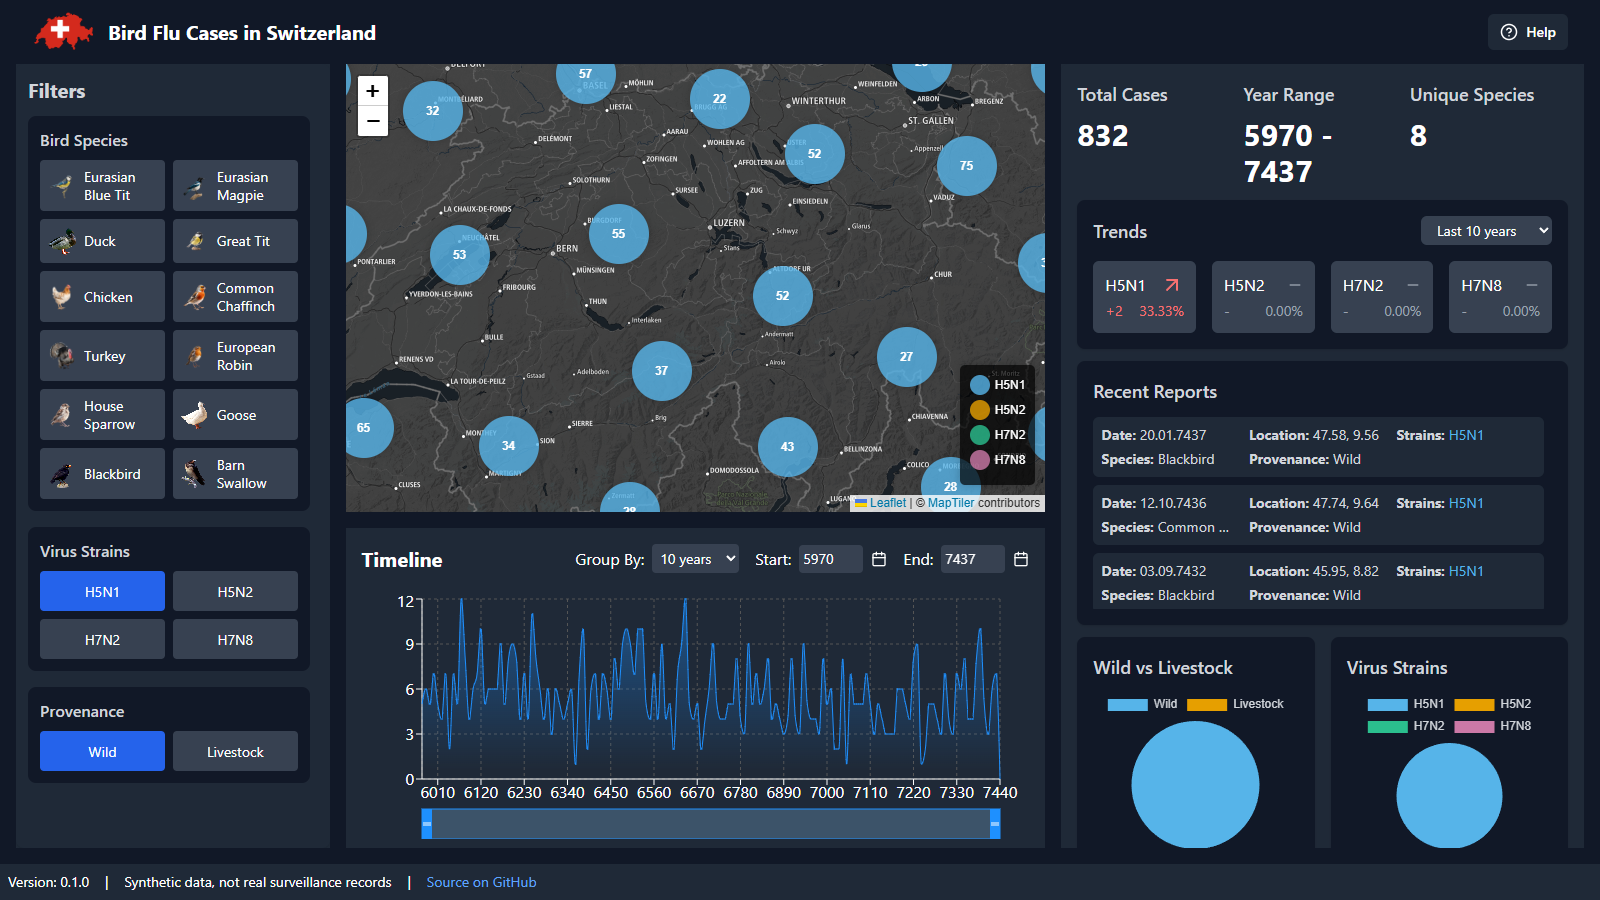
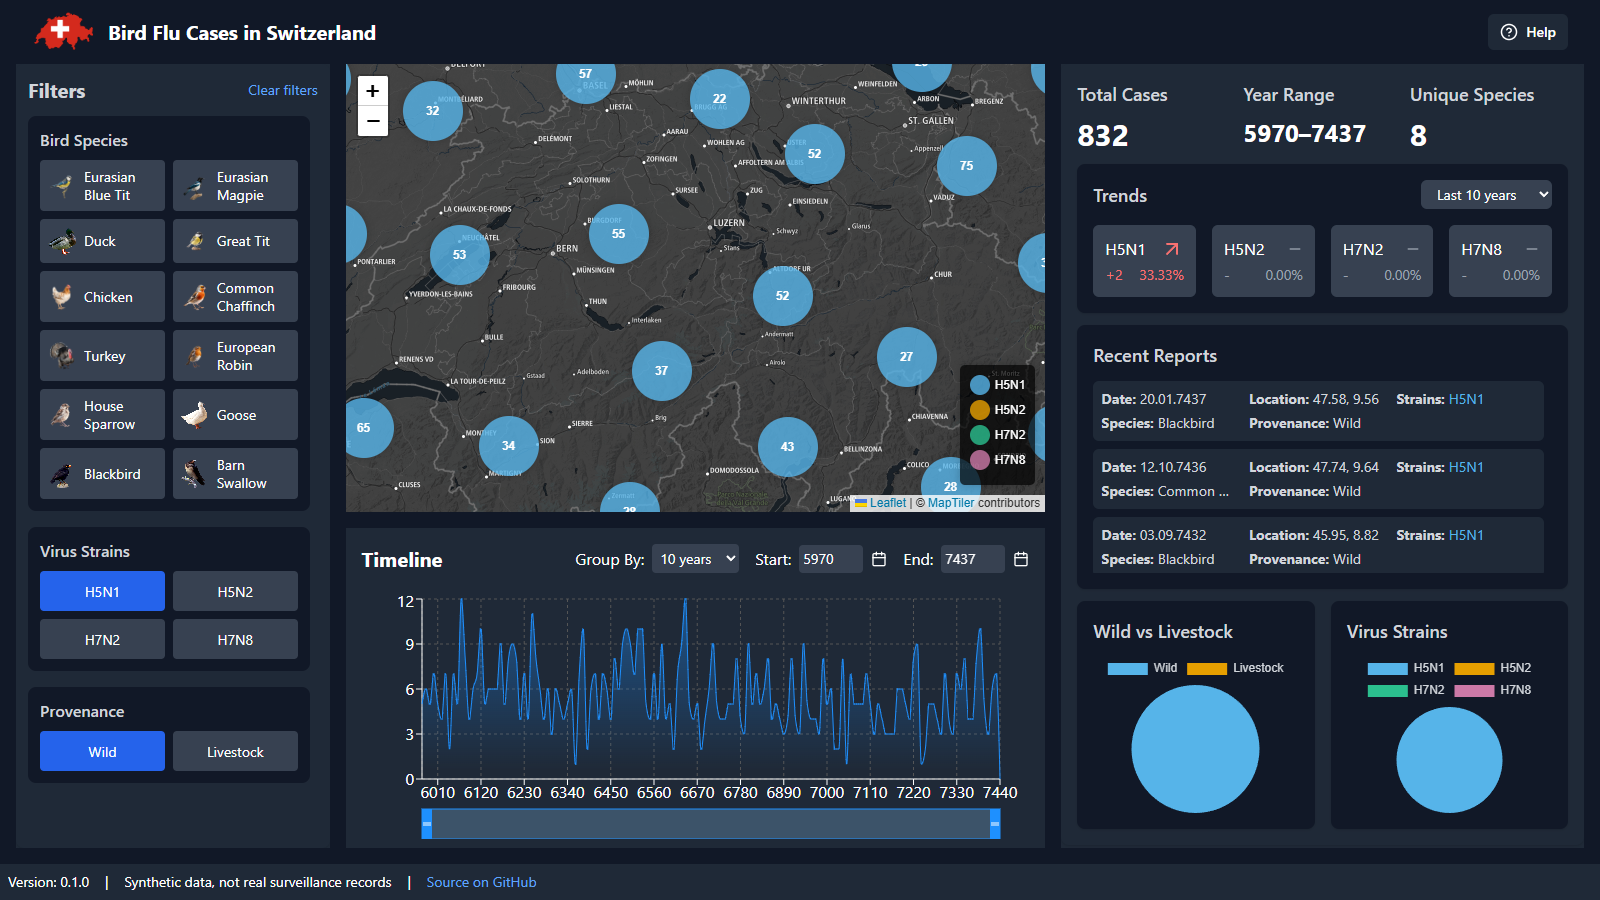
Add CI, data tests, empty states and a clear-filters button
- Add GitHub Actions workflow running tests and a strict (CI=true)
  production build on pushes to main and on pull requests
- Add tests for date parsing, filtering and unique-value helpers
- Fix the invisible loading/error screen (white text on white)
- Show "No reports match the current filters." instead of empty pie
  charts and an empty Recent Reports list
- Stop the timeline axis showing -Infinity when nothing matches, and
  keep the year inputs on the full range instead of clamping to today
- Label the timeline tooltip with its period, e.g. "6680–6689: 41 cases"
- Add a Clear filters button that resets species, strain and provenance
- Keep the Year Range figure on one line
- Retake README screenshots

diff --git a/src/utils/dataUtils.test.ts b/src/utils/dataUtils.test.ts
@@ -1,0 +1,60 @@
+import { filterData, parseCustomDate, getUniqueSpecies, getUniqueStrains, getUniqueProvenances } from './dataUtils';
+import { DataPoint } from '../types/DataPoint';
+
+const point = (overrides: Partial<DataPoint>): DataPoint => ({
+  latitude: 47,
+  longitude: 8,
+  species: 'Duck',
+  H5N1: 0,
+  H5N2: 0,
+  H7N2: 0,
+  H7N8: 0,
+  timestamp: '01.01.2000',
+  provenance: 'Wild',
+  ...overrides,
+});
+
+const data = [
+  point({ species: 'Duck', H5N1: 1, timestamp: '15.03.2000', provenance: 'Wild' }),
+  point({ species: 'Chicken', H7N2: 1, timestamp: '20.06.2005', provenance: 'Livestock' }),
+  point({ species: 'Goose', H5N1: 1, H7N8: 1, timestamp: '01.12.2010', provenance: 'Wild' }),
+];
+const allTime: [Date, Date] = [new Date(1900, 0, 1), new Date(2100, 0, 1)];
+
+describe('parseCustomDate', () => {
+  test('reads DD.MM.YYYY', () => {
+    const d = parseCustomDate('06.02.7121');
+    expect([d.getDate(), d.getMonth(), d.getFullYear()]).toEqual([6, 1, 7121]);
+  });
+});
+
+describe('filterData', () => {
+  test('returns everything when no filters are selected', () => {
+    expect(filterData(data, allTime, [], [], [])).toHaveLength(3);
+  });
+
+  test('keeps only points inside the date range, inclusive', () => {
+    const range: [Date, Date] = [new Date(2000, 2, 15), new Date(2005, 5, 20)];
+    expect(filterData(data, range, [], [], []).map(p => p.species)).toEqual(['Duck', 'Chicken']);
+  });
+
+  test('matches any of the selected strains', () => {
+    expect(filterData(data, allTime, [], ['H7N2', 'H7N8'], []).map(p => p.species)).toEqual(['Chicken', 'Goose']);
+  });
+
+  test('combines species, strain and provenance filters', () => {
+    expect(filterData(data, allTime, ['Duck', 'Goose'], ['H5N1'], ['Wild'])).toHaveLength(2);
+    expect(filterData(data, allTime, ['Duck'], ['H7N2'], [])).toHaveLength(0);
+  });
+});
+
+describe('unique values', () => {
+  test('lists species and provenances once each', () => {
+    expect(getUniqueSpecies([...data, data[0]])).toEqual(['Duck', 'Chicken', 'Goose']);
+    expect(getUniqueProvenances(data)).toEqual(['Wild', 'Livestock']);
+  });
+
+  test('lists only strains that appear in the data', () => {
+    expect(getUniqueStrains(data)).toEqual(['H5N1', 'H7N2', 'H7N8']);
+  });
+});

diff --git a/src/components/dataSummaryComponents/DataSummary.tsx b/src/components/dataSummaryComponents/DataSummary.tsx
@@ -109,7 +109,7 @@ const DataSummary: React.FC<DataSummaryProps> = ({ filteredData, dateRange }) =>
         </div>
         <div>
           <h3 className="text-lg font-semibold mb-2 text-gray-300">Year Range</h3>
-          <p className="text-white text-3xl font-bold">{dateRange[0].getFullYear()} - {dateRange[1].getFullYear()}</p>
+          <p className="text-white text-2xl font-bold whitespace-nowrap">{dateRange[0].getFullYear()}–{dateRange[1].getFullYear()}</p>
         </div>
         <div>
           <h3 className="text-lg font-semibold mb-2 text-gray-300">Unique Species</h3>
@@ -127,6 +127,9 @@ const DataSummary: React.FC<DataSummaryProps> = ({ filteredData, dateRange }) =>
       <RecentReports filteredData={filteredData}/>
 
       {/* Pie Charts */}
+      {filteredData.length === 0 ? (
+        <p className="bg-gray-900 p-4 rounded-lg text-gray-300">No reports match the current filters.</p>
+      ) : (
       <div className="grid grid-cols-1 md:grid-cols-2 gap-4">
         <div className="bg-gray-900 p-4 rounded-lg shadow">
           <h3 className="text-lg font-semibold mb-2 text-gray-300">Wild vs Livestock</h3>
@@ -141,6 +144,7 @@ const DataSummary: React.FC<DataSummaryProps> = ({ filteredData, dateRange }) =>
           </div>
         </div>
       </div>
+      )}
     </div>
   );
 };

diff --git a/src/components/TimelineView.tsx b/src/components/TimelineView.tsx
@@ -55,7 +55,7 @@ const TimelineView: React.FC<TimelineViewProps> = ({
 
     // Ensure the last group includes the maxYear
     const lastGroupYear = Math.ceil(maxYear / groupBy) * groupBy;
-    if (!yearData[lastGroupYear]) {
+    if (data.length > 0 && !yearData[lastGroupYear]) {
       yearData[lastGroupYear] = 0;
     }
 
@@ -70,8 +70,9 @@ const TimelineView: React.FC<TimelineViewProps> = ({
       const maxYear = chartData[chartData.length - 1].year;
       return [new Date(minYear, 0, 1), new Date(maxYear, 11, 31)];
     }
-    return [new Date(), new Date()];
-  }, [chartData]);
+    // No matching data: keep the full range so the year inputs aren't clamped to today
+    return initialDateRange;
+  }, [chartData, initialDateRange]);
 
   const handleBrushChange = debounce((newRange: { startIndex?: number; endIndex?: number }) => {
     if (
@@ -134,7 +135,7 @@ const TimelineView: React.FC<TimelineViewProps> = ({
     if (active && payload && payload.length) {
       return (
         <div className="custom-tooltip" style={{ backgroundColor: '#000', padding: '5px' }}>
-          <p className="intro">{`Number of cases: ${payload[0].value}`}</p>
+          <p className="intro">{`${label}–${label + groupBy - 1}: ${payload[0].value} cases`}</p>
         </div>
       );
     }

diff --git a/src/components/Filters.tsx b/src/components/Filters.tsx
@@ -27,6 +27,7 @@ interface FiltersProps {
   onSpeciesChange: (species: string) => void;
   onStrainChange: (strain: string) => void;
   onProvenanceChange: (provenance: string) => void;
+  onClearFilters: () => void;
 }
 
 const birdImages: { [key: string]: string } = {
@@ -54,10 +55,22 @@ const Filters: React.FC<FiltersProps> = ({
   onSpeciesChange,
   onStrainChange,
   onProvenanceChange,
+  onClearFilters,
 }) => {
+  const hasSelection = selectedSpecies.length + selectedStrains.length + selectedProvenances.length > 0;
   return (
     <div className="bg-gray-800 p-3 rounded-lg shadow text-white h-full flex flex-col">
-      <h2 className="text-xl font-bold mb-3 text-gray-300">Filters</h2>
+      <div className="flex items-center justify-between mb-3">
+        <h2 className="text-xl font-bold text-gray-300">Filters</h2>
+        {hasSelection && (
+          <button
+            onClick={onClearFilters}
+            className="text-sm text-blue-400 hover:underline focus:outline-none focus:ring-2 focus:ring-blue-400 rounded"
+          >
+            Clear filters
+          </button>
+        )}
+      </div>
       <div className="space-y-4 flex-grow overflow-y-auto pr-2" style={{
         scrollbarWidth: 'thin',
         scrollbarColor: SCROLLBAR_COLORS.Colors

diff --git a/src/components/Dashboard.tsx b/src/components/Dashboard.tsx
@@ -106,6 +106,10 @@ const Dashboard: React.FC = () => {
     }));
   }, []);
 
+  const handleClearFilters = useCallback(() => {
+    setFilters(prev => ({ ...prev, selectedSpecies: [], selectedStrains: [], selectedProvenances: [] }));
+  }, []);
+
   if (loading) {
     return <div className="text-white p-4">Loading data...</div>;
   }
@@ -128,6 +132,7 @@ const Dashboard: React.FC = () => {
             onSpeciesChange={handleSpeciesChange}
             onStrainChange={handleStrainChange}
             onProvenanceChange={handleProvenanceChange}
+            onClearFilters={handleClearFilters}
           />
         </aside>
         

diff --git a/src/components/dataSummaryComponents/RecentReports.tsx b/src/components/dataSummaryComponents/RecentReports.tsx
@@ -30,6 +30,7 @@ const RecentReports: React.FC<RecentReportsProps> = ({ filteredData }) => {
                 scrollbarWidth: 'thin',
                 scrollbarColor: SCROLLBAR_COLORS.Colors
             }}>
+                {reportsWithStrains.length === 0 && <p className="text-sm text-gray-400">No reports match the current filters.</p>}
                 <ul className="space-y-2">
                     {reportsWithStrains
                         .sort((a, b) => parseDate(b.timestamp).getTime() - parseDate(a.timestamp).getTime())

diff --git a/src/App.tsx b/src/App.tsx
@@ -4,7 +4,7 @@ import Dashboard from './components/Dashboard';
 
 const App: React.FC = () => {
   return (
-    <div className="h-screen w-screen overflow-hidden relative">
+    <div className="h-screen w-screen overflow-hidden relative bg-gray-900">
       <Navbar />
       <div className="h-full overflow-hidden">
         <Dashboard />
